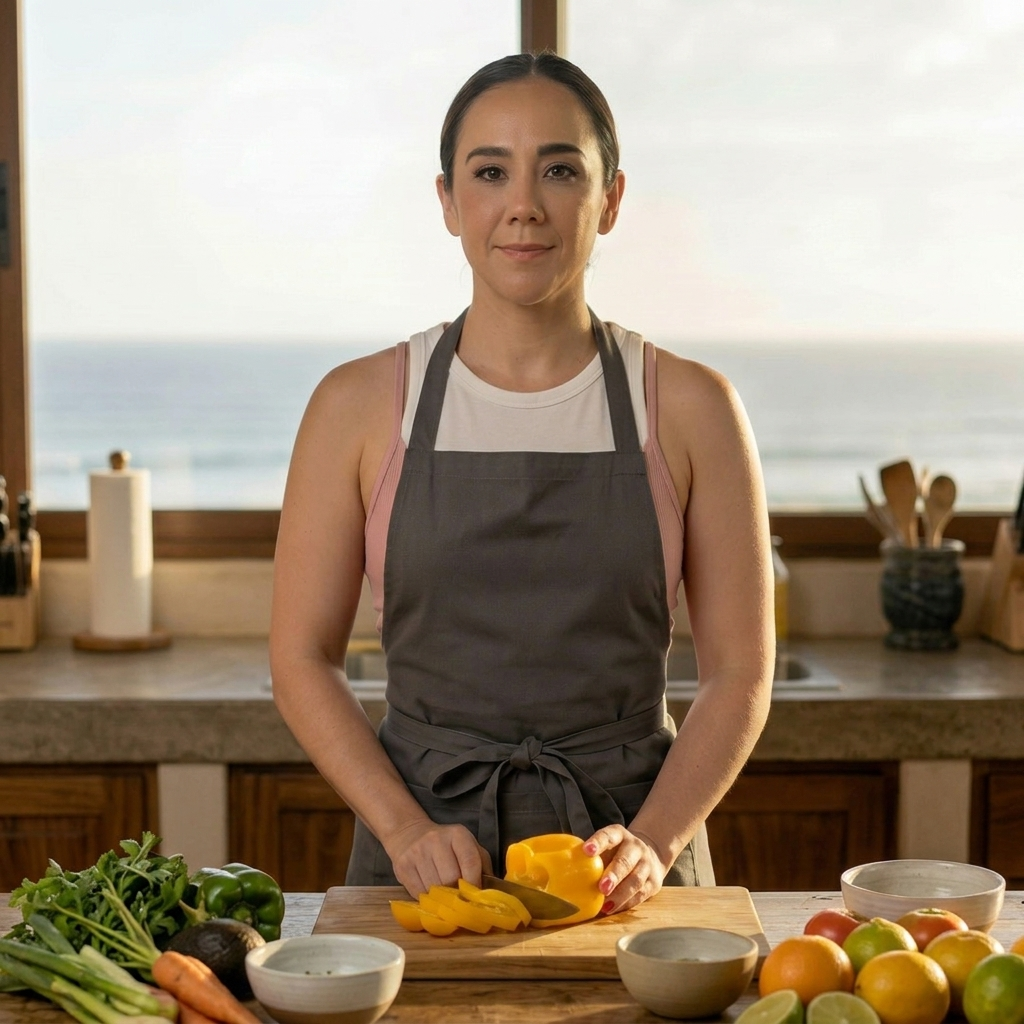
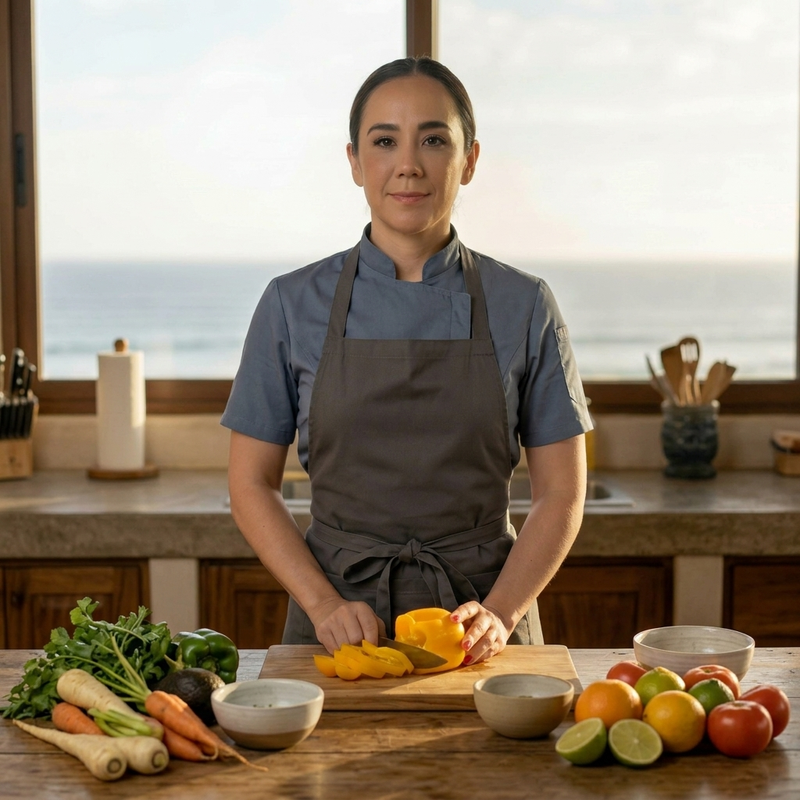
fix: resolve lead-magnet layout styling glitch, replace WhatsApp emojis with SVGs, swap to blue chef coat images across both main and event pages

diff --git a/experiences/cocina-nutricion-playas-tijuana-18-junio/index.html b/experiences/cocina-nutricion-playas-tijuana-18-junio/index.html
@@ -31,9 +31,116 @@
   object-fit: cover !important;
   object-position: center !important;
 }
+
+/* WhatsApp SVG style */
+.btn-wa svg, .mobile-sticky .btn-wa svg {
+  width: 18px;
+  height: 18px;
+  vertical-align: middle;
+  margin-right: 6px;
+  fill: currentColor;
+}
+.wa-float svg {
+  width: 32px;
+  height: 32px;
+  fill: currentColor;
+}
+
+/* Lead Magnet styles */
+.lead-magnet {
+  display: grid;
+  grid-template-columns: 1.2fr 1fr;
+  gap: 48px;
+  align-items: center;
+  max-width: 1080px;
+  margin: 80px auto;
+  padding: 80px 24px;
+  background: var(--warm-white);
+  border-top: 1px solid rgba(232, 216, 195, 0.4);
+}
+.lead-magnet-content {
+  padding-right: 24px;
+}
+.lead-magnet-content h2 {
+  font-size: 2.2rem;
+  color: var(--cacao);
+  margin-bottom: 16px;
+  font-family: 'Playfair Display', serif;
+}
+.lead-magnet-content p {
+  font-size: 1.05rem;
+  color: var(--olive);
+  margin-bottom: 28px;
+  line-height: 1.6;
+}
+.lead-form {
+  display: flex;
+  flex-direction: column;
+  gap: 16px;
+  max-width: 480px;
+}
+.lead-form input {
+  padding: 14px 16px;
+  border: 2px solid var(--sand);
+  border-radius: 8px;
+  font-size: 1rem;
+  outline: none;
+  background: #fff;
+  transition: border .2s;
+  width: 100%;
+}
+.lead-form input:focus {
+  border-color: var(--clay);
+}
+.lead-form button {
+  padding: 16px;
+  background: var(--clay);
+  color: #fff;
+  border: none;
+  border-radius: 8px;
+  font-size: 1.05rem;
+  font-weight: 700;
+  cursor: pointer;
+  transition: all .2s;
+  font-family: inherit;
+  width: 100%;
+}
+.lead-form button:hover {
+  background: var(--coral);
+  transform: translateY(-1px);
+}
+.lead-magnet-img {
+  border-radius: var(--radius-lg);
+  overflow: hidden;
+  box-shadow: var(--shadow-lg);
+  height: 480px;
+}
+.lead-magnet-img img {
+  width: 100%;
+  height: 100%;
+  object-fit: cover;
+  object-position: top;
+}
+
 @media(max-width:768px){
   .menu-item-grid {grid-template-columns: 1fr; gap: 32px; margin-bottom: 48px;}
   .menu-item-grid.reverse .dish-img {order: 0;}
+  .lead-magnet {
+    grid-template-columns: 1fr;
+    gap: 32px;
+    margin: 48px auto;
+    padding: 48px 24px;
+  }
+  .lead-magnet-content {
+    padding-right: 0;
+    text-align: center;
+  }
+  .lead-form {
+    margin: 0 auto;
+  }
+  .lead-magnet-img {
+    height: 320px;
+  }
 }
 </style>
 </head>
@@ -63,7 +170,7 @@
         </div>
         <div class="ev-hero-btns">
           <a href="#registro" class="btn-primary">Reservar mi lugar</a>
-          <button class="btn-wa" onclick="openWhatsApp()">💬 Enviar WhatsApp</button>
+          <button class="btn-wa" onclick="openWhatsApp()"><svg xmlns="http://www.w3.org/2000/svg" viewBox="0 0 24 24"><path d="M.057 24l1.687-6.163c-1.041-1.804-1.588-3.849-1.587-5.946C.06 5.348 5.397.01 12.008.01c3.202.001 6.212 1.246 8.477 3.514 2.266 2.268 3.507 5.28 3.505 8.484-.004 6.657-5.34 11.997-11.953 11.997-2.005-.001-3.973-.502-5.724-1.457L0 24zm6.59-4.846c1.6.95 3.188 1.449 4.825 1.451 5.436 0 9.86-4.37 9.864-9.799.002-2.63-1.023-5.101-2.885-6.968C16.63 1.97 14.157.946 11.527.946c-5.437 0-9.861 4.37-9.865 9.801 0 1.706.452 3.37 1.309 4.856l-.993 3.626 3.722-.975zm13.114-6.87c-.29-.145-1.717-.847-1.983-.943-.266-.097-.459-.145-.653.145-.193.291-.748.944-.919 1.138-.17.193-.341.217-.631.072-.29-.145-1.228-.453-2.339-1.443-.865-.771-1.449-1.723-1.619-2.014-.17-.291-.018-.448.127-.592.13-.13.29-.34.436-.509.145-.17.193-.291.29-.485.097-.194.049-.364-.025-.509-.072-.145-.653-1.573-.894-2.155-.236-.57-.496-.49-.653-.497-.154-.008-.34-.008-.528-.008-.188 0-.496.07-.756.352-.26.282-1 .977-1 2.383s1.027 2.756 1.171 2.95c.145.194 2.023 3.176 4.901 4.417.685.295 1.219.471 1.636.604.688.219 1.314.188 1.808.114.55-.082 1.717-.701 1.96-1.378.243-.678.243-1.258.17-1.379-.073-.121-.266-.194-.556-.34z"/></svg>Enviar WhatsApp</button>
         </div>
         <p class="ev-hero-trust">Clase presencial · Cocina + nutrición · Grupo reducido</p>
       </div>
@@ -346,7 +453,7 @@
     <div class="wa-section reveal">
       <h2>¿Tienes preguntas?</h2>
       <p>Escríbenos por WhatsApp y te compartimos disponibilidad, ubicación y detalles para reservar.</p>
-      <button class="btn-wa" onclick="openWhatsApp()" style="font-size:1.1rem;padding:16px 40px">💬 Enviar WhatsApp</button>
+      <button class="btn-wa" onclick="openWhatsApp()" style="font-size:1.1rem;padding:16px 40px"><svg xmlns="http://www.w3.org/2000/svg" viewBox="0 0 24 24"><path d="M.057 24l1.687-6.163c-1.041-1.804-1.588-3.849-1.587-5.946C.06 5.348 5.397.01 12.008.01c3.202.001 6.212 1.246 8.477 3.514 2.266 2.268 3.507 5.28 3.505 8.484-.004 6.657-5.34 11.997-11.953 11.997-2.005-.001-3.973-.502-5.724-1.457L0 24zm6.59-4.846c1.6.95 3.188 1.449 4.825 1.451 5.436 0 9.86-4.37 9.864-9.799.002-2.63-1.023-5.101-2.885-6.968C16.63 1.97 14.157.946 11.527.946c-5.437 0-9.861 4.37-9.865 9.801 0 1.706.452 3.37 1.309 4.856l-.993 3.626 3.722-.975zm13.114-6.87c-.29-.145-1.717-.847-1.983-.943-.266-.097-.459-.145-.653.145-.193.291-.748.944-.919 1.138-.17.193-.341.217-.631.072-.29-.145-1.228-.453-2.339-1.443-.865-.771-1.449-1.723-1.619-2.014-.17-.291-.018-.448.127-.592.13-.13.29-.34.436-.509.145-.17.193-.291.29-.485.097-.194.049-.364-.025-.509-.072-.145-.653-1.573-.894-2.155-.236-.57-.496-.49-.653-.497-.154-.008-.34-.008-.528-.008-.188 0-.496.07-.756.352-.26.282-1 .977-1 2.383s1.027 2.756 1.171 2.95c.145.194 2.023 3.176 4.901 4.417.685.295 1.219.471 1.636.604.688.219 1.314.188 1.808.114.55-.082 1.717-.701 1.96-1.378.243-.678.243-1.258.17-1.379-.073-.121-.266-.194-.556-.34z"/></svg>Enviar WhatsApp</button>
     </div>
   </div>
 </section>
@@ -374,7 +481,7 @@
     <p>Reserva tu lugar y vive una clase diferente donde la nutrición se aprende cocinando.</p>
     <div class="ev-hero-btns">
       <a href="#registro" class="btn-primary">Reservar mi lugar</a>
-      <button class="btn-wa" onclick="openWhatsApp()">💬 Enviar WhatsApp</button>
+      <button class="btn-wa" onclick="openWhatsApp()"><svg xmlns="http://www.w3.org/2000/svg" viewBox="0 0 24 24"><path d="M.057 24l1.687-6.163c-1.041-1.804-1.588-3.849-1.587-5.946C.06 5.348 5.397.01 12.008.01c3.202.001 6.212 1.246 8.477 3.514 2.266 2.268 3.507 5.28 3.505 8.484-.004 6.657-5.34 11.997-11.953 11.997-2.005-.001-3.973-.502-5.724-1.457L0 24zm6.59-4.846c1.6.95 3.188 1.449 4.825 1.451 5.436 0 9.86-4.37 9.864-9.799.002-2.63-1.023-5.101-2.885-6.968C16.63 1.97 14.157.946 11.527.946c-5.437 0-9.861 4.37-9.865 9.801 0 1.706.452 3.37 1.309 4.856l-.993 3.626 3.722-.975zm13.114-6.87c-.29-.145-1.717-.847-1.983-.943-.266-.097-.459-.145-.653.145-.193.291-.748.944-.919 1.138-.17.193-.341.217-.631.072-.29-.145-1.228-.453-2.339-1.443-.865-.771-1.449-1.723-1.619-2.014-.17-.291-.018-.448.127-.592.13-.13.29-.34.436-.509.145-.17.193-.291.29-.485.097-.194.049-.364-.025-.509-.072-.145-.653-1.573-.894-2.155-.236-.57-.496-.49-.653-.497-.154-.008-.34-.008-.528-.008-.188 0-.496.07-.756.352-.26.282-1 .977-1 2.383s1.027 2.756 1.171 2.95c.145.194 2.023 3.176 4.901 4.417.685.295 1.219.471 1.636.604.688.219 1.314.188 1.808.114.55-.082 1.717-.701 1.96-1.378.243-.678.243-1.258.17-1.379-.073-.121-.266-.194-.556-.34z"/></svg>Enviar WhatsApp</button>
     </div>
   </div>
 </section>
@@ -403,12 +510,14 @@
 </footer>
 
 <!-- FLOATING WHATSAPP -->
-<a class="wa-float" href="https://wa.me/526643640788?text=Hola%2C%20quiero%20informaci%C3%B3n%20para%20reservar%20mi%20lugar%20en%20el%20taller%20de%20cocina%20saludable%20y%20nutrici%C3%B3n%20del%2018%20de%20junio%20en%20Playas%20de%20Tijuana." target="_blank" rel="noopener" aria-label="WhatsApp">💬</a>
+<a class="wa-float" href="https://wa.me/526643640788?text=Hola%2C%20quiero%20informaci%C3%B3n%20para%20reservar%20mi%20lugar%20en%20el%20taller%20de%20cocina%20saludable%20y%20nutrici%C3%B3n%20del%2018%20de%20junio%20en%20Playas%20de%20Tijuana." target="_blank" rel="noopener" aria-label="WhatsApp" style="display: flex; align-items: center; justify-content: center; color: #fff;">
+  <svg xmlns="http://www.w3.org/2000/svg" viewBox="0 0 24 24"><path d="M.057 24l1.687-6.163c-1.041-1.804-1.588-3.849-1.587-5.946C.06 5.348 5.397.01 12.008.01c3.202.001 6.212 1.246 8.477 3.514 2.266 2.268 3.507 5.28 3.505 8.484-.004 6.657-5.34 11.997-11.953 11.997-2.005-.001-3.973-.502-5.724-1.457L0 24zm6.59-4.846c1.6.95 3.188 1.449 4.825 1.451 5.436 0 9.86-4.37 9.864-9.799.002-2.63-1.023-5.101-2.885-6.968C16.63 1.97 14.157.946 11.527.946c-5.437 0-9.861 4.37-9.865 9.801 0 1.706.452 3.37 1.309 4.856l-.993 3.626 3.722-.975zm13.114-6.87c-.29-.145-1.717-.847-1.983-.943-.266-.097-.459-.145-.653.145-.193.291-.748.944-.919 1.138-.17.193-.341.217-.631.072-.29-.145-1.228-.453-2.339-1.443-.865-.771-1.449-1.723-1.619-2.014-.17-.291-.018-.448.127-.592.13-.13.29-.34.436-.509.145-.17.193-.291.29-.485.097-.194.049-.364-.025-.509-.072-.145-.653-1.573-.894-2.155-.236-.57-.496-.49-.653-.497-.154-.008-.34-.008-.528-.008-.188 0-.496.07-.756.352-.26.282-1 .977-1 2.383s1.027 2.756 1.171 2.95c.145.194 2.023 3.176 4.901 4.417.685.295 1.219.471 1.636.604.688.219 1.314.188 1.808.114.55-.082 1.717-.701 1.96-1.378.243-.678.243-1.258.17-1.379-.073-.121-.266-.194-.556-.34z"/></svg>
+</a>
 
 <!-- MOBILE STICKY CTA -->
 <div class="mobile-sticky">
   <a href="#registro" class="btn-primary">Reservar</a>
-  <button class="btn-wa" onclick="openWhatsApp()">💬 WhatsApp</button>
+  <button class="btn-wa" onclick="openWhatsApp()"><svg xmlns="http://www.w3.org/2000/svg" viewBox="0 0 24 24"><path d="M.057 24l1.687-6.163c-1.041-1.804-1.588-3.849-1.587-5.946C.06 5.348 5.397.01 12.008.01c3.202.001 6.212 1.246 8.477 3.514 2.266 2.268 3.507 5.28 3.505 8.484-.004 6.657-5.34 11.997-11.953 11.997-2.005-.001-3.973-.502-5.724-1.457L0 24zm6.59-4.846c1.6.95 3.188 1.449 4.825 1.451 5.436 0 9.86-4.37 9.864-9.799.002-2.63-1.023-5.101-2.885-6.968C16.63 1.97 14.157.946 11.527.946c-5.437 0-9.861 4.37-9.865 9.801 0 1.706.452 3.37 1.309 4.856l-.993 3.626 3.722-.975zm13.114-6.87c-.29-.145-1.717-.847-1.983-.943-.266-.097-.459-.145-.653.145-.193.291-.748.944-.919 1.138-.17.193-.341.217-.631.072-.29-.145-1.228-.453-2.339-1.443-.865-.771-1.449-1.723-1.619-2.014-.17-.291-.018-.448.127-.592.13-.13.29-.34.436-.509.145-.17.193-.291.29-.485.097-.194.049-.364-.025-.509-.072-.145-.653-1.573-.894-2.155-.236-.57-.496-.49-.653-.497-.154-.008-.34-.008-.528-.008-.188 0-.496.07-.756.352-.26.282-1 .977-1 2.383s1.027 2.756 1.171 2.95c.145.194 2.023 3.176 4.901 4.417.685.295 1.219.471 1.636.604.688.219 1.314.188 1.808.114.55-.082 1.717-.701 1.96-1.378.243-.678.243-1.258.17-1.379-.073-.121-.266-.194-.556-.34z"/></svg>WhatsApp</button>
 </div>
 
 <!-- TOAST -->

diff --git a/index.html b/index.html
@@ -235,7 +235,7 @@
       </div>
       <div class="profile-cards reveal right">
         <div class="profile-card">
-          <img src="assets/karina-chef-plating.png" alt="Karina Paz Kennedy" style="object-position: top;">
+          <img src="assets/karina-chef-plating.png?v=2" alt="Karina Paz Kennedy" style="object-position: top;">
           <div class="profile-card-body">
             <h3>Karina Paz Kennedy</h3>
             <div class="profile-socials">
@@ -475,7 +475,7 @@
     </div>
   </div>
   <a href="https://wa.me/526643640788?text=Hello!%20I'm%20interested%20in%20learning%20more%20about%20KPK%20Wellness%20and%20upcoming%20events." target="_blank" class="chatbot-avatar">
-    <img src="assets/karina-chef-plating.png" alt="Chat with Karina on WhatsApp">
+    <img src="assets/karina-chef-plating.png?v=2" alt="Chat with Karina on WhatsApp">
     <div class="chatbot-pulse"></div>
     <div class="chatbot-badge">
       <svg viewBox="0 0 24 24" fill="currentColor"><path d="M17.472 14.382c-.297-.149-1.758-.867-2.03-.967-.273-.099-.471-.148-.67.15-.197.297-.767.966-.94 1.164-.173.199-.347.223-.644.075-.297-.15-1.255-.463-2.39-1.475-.883-.788-1.48-1.761-1.653-2.059-.173-.297-.018-.458.13-.606.134-.133.298-.347.446-.52.149-.174.198-.298.298-.497.099-.198.05-.371-.025-.52-.075-.149-.669-1.612-.916-2.207-.242-.579-.487-.5-.669-.51a12.8 12.8 0 0 0-.57-.01c-.198 0-.52.074-.792.372-.272.297-1.04 1.016-1.04 2.479 0 1.462 1.065 2.875 1.213 3.074.149.198 2.096 3.2 5.077 4.487.709.306 1.262.489 1.694.625.712.227 1.36.195 1.871.118.571-.085 1.758-.719 2.006-1.413.248-.694.248-1.289.173-1.413-.074-.124-.272-.198-.57-.347m-5.421 7.403h-.004a9.87 9.87 0 0 1-5.031-1.378l-.361-.214-3.741.982.998-3.648-.235-.374a9.86 9.86 0 0 1-1.51-5.26c.001-5.45 4.436-9.884 9.888-9.884 2.64 0 5.122 1.03 6.988 2.898a9.825 9.825 0 0 1 2.893 6.994c-.003 5.45-4.437 9.884-9.885 9.884m8.413-18.297A11.815 11.815 0 0 0 12.05 0C5.495 0 .16 5.335.157 11.892c0 2.096.547 4.142 1.588 5.945L.057 24l6.305-1.654a11.882 11.882 0 0 0 5.683 1.448h.005c6.554 0 11.89-5.335 11.893-11.893a11.821 11.821 0 0 0-3.48-8.413Z"/></svg>
